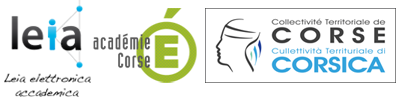
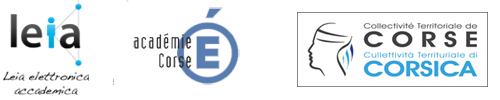
Updated template with color

diff --git a/style.css b/style.css
@@ -348,7 +348,7 @@ body {
 }
 
 a {
-	color: #21759b;
+	color: #3DAADB;
     text-decoration: none;
 }
 
@@ -894,7 +894,7 @@ textarea {
 .catchbase-nav-menu li a:focus,
 .sidebar-header-right .widget_nav_menu li a:hover,
 .sidebar-header-right .widget_nav_menu li a:focus {
-	color: #21759b;
+	color: #3DAADB;
 	text-decoration: none;
 }
 
@@ -909,7 +909,7 @@ textarea {
 .catchbase-nav-menu .current_page_ancestor > a,
 .sidebar-header-right .widget_nav_menu .current-menu-item > a,
 .sidebar-header-right .widget_nav_menu .current-menu-ancestor > a {
-	color: #21759b;
+	color: #3DAADB;
 }
 
 .catchbase-nav-menu .sub-menu,
@@ -959,7 +959,7 @@ textarea {
 .catchbase-nav-menu .children li a:focus,
 .sidebar-header-right .widget_nav_menu .sub-menu li a:hover,
 .sidebar-header-right .widget_nav_menu .sub-menu li a:focus {
-	color: #21759b;
+	color: #3DAADB;
 }
 
 .catchbase-nav-menu .sub-menu .sub-menu,
@@ -1159,7 +1159,7 @@ textarea {
 	border-radius: 3px;
 	box-shadow: 0 0 2px 2px rgba(0, 0, 0, 0.6);
 	clip: auto !important;
-	color: #21759b;
+	color: #3DAADB;
 	display: block;
 	font-size: 14px;
 	font-weight: bold;
@@ -1259,7 +1259,7 @@ textarea {
 }
 
 .site-title a:hover {
-	color: #21759b;
+	color: #3DAADB;
 	text-decoration: none;
 }
 
@@ -1342,7 +1342,7 @@ textarea {
 }
 
 #featured-content .entry-title a:hover {
-	color: #21759b;
+	color: #3DAADB;
 }
 
 #featured-content .featured-content-image {
@@ -1408,7 +1408,7 @@ textarea {
 }
 
 .entry-title a:hover {
-	color: #21759b;
+	color: #3DAADB;
 }
 
 .entry-title a:hover,
@@ -1952,7 +1952,7 @@ caption {
 
 #breadcrumb-list a,
 #breadcrumb-list a span {
-	color: #21759b;
+	color: #3DAADB;
 	display: block;
 	padding: 5px 10px 3px;
 }
@@ -2170,8 +2170,8 @@ caption {
 }
 
 .site .widget_catchbase_social_icons a.genericon-wordpress:hover {
-	background-color: #21759b;
-	border-color: #21759b;
+	background-color: #3DAADB;
+	border-color: #3DAADB;
 }
 
 .site .widget_catchbase_social_icons a.genericon-github:hover {
@@ -2305,16 +2305,16 @@ a.genericon-cog {
 
 
 a.genericon-key:hover {
-	background-color: #21759b;
-	border-color: #21759b;
+	background-color: #3DAADB;
+	border-color: #3DAADB;
 	text-decoration: none;
 	font-family: sans-serif;
 	color: white;
 }
 
 a.genericon-cog:hover {
-	background-color: #21759b;
-	border-color: #21759b;
+	background-color: #3DAADB;
+	border-color: #3DAADB;
 	text-decoration: none;
 	font-family: sans-serif;
 	color: white;

diff --git a/css/responsive.css b/css/responsive.css
@@ -4,7 +4,7 @@ Responsive Style
 
 	#site-login .wrapper {
 	    padding: 8px;
-	    background: #CCCCCC;
+	    background: #a1d6e6;
 	    opacity: 0.9;
     	filter: alpha(opacity=90);
 	}
@@ -15,12 +15,13 @@ Responsive Style
 	}
 
 	#header-left-content > a > img {
-		width: 350px;
+		width: 450px;
 	}
 
 	#header-right-content {
-		width: 50%;
-		float: left;
+		padding-top: 40px;
+		padding-right: 20px;
+		float: right;
 		text-align: right;
 	}
 
@@ -822,8 +823,6 @@ Responsive Style
 
 	#site-login {
 		font-size: 13px;
-		padding: 5px;
-		background: #CCCCCC;
 	}
 
 	#site-branding,
@@ -1023,6 +1022,11 @@ Responsive Style
 		height: 50px;
 	}
 
+	#header-right-content {
+	    padding-top: 23px;
+	}
+}
+
 /*--------------------------------------------------------------
 7. x <= 767px
 --------------------------------------------------------------*/
@@ -1042,6 +1046,10 @@ Responsive Style
 
 		#logos_partners > div {
 		height: 40px;
+	}
+
+		#header-right-content {
+	    padding-top: 20px;
 	}
 
 }
@@ -1071,20 +1079,6 @@ Responsive Style
 	    max-width: 25%;
 	}
 
-	#footer-left-content,
-	#footer-right-content {
-		display: block;
-		text-align: center;
-	    width: 100%;
-	}
-
-	#header-left-content,
-	#header-right-content {
-		display: block;
-		text-align: center;
-	    width: 100%;
-	    padding: 2px;
-	}
 
 	#logos_partners > div {
 		height: 30px;
@@ -1160,6 +1154,10 @@ Responsive Style
 
 	#logos_partners > div {
 		height: 25px;
+	}
+
+	#header-right-content {
+	    padding-top: 13px;
 	}
 
 }
@@ -1248,6 +1246,10 @@ Responsive Style
 	    margin-bottom: 0;
 	}
 
+	#header-right-content {
+	    padding-top: 13px;
+	}
+
 }
 
 /*--------------------------------------------------------------
@@ -1309,7 +1311,6 @@ Responsive Style
 	#site-generator {
 		font-size: 11px;
 	}
-
 	#header-left-content,
 	#header-right-content {
 		display: block;

diff --git a/css/editor-style.css b/css/editor-style.css
@@ -171,7 +171,7 @@ big {
 }
 
 a {
-	color: #21759b;
+	color: #3DAADB;
 	text-decoration: none;
 }
 

diff --git a/inc/catchbase-default-options.php b/inc/catchbase-default-options.php
@@ -618,7 +618,7 @@ function catchbase_get_content() {
 	$catchbase_content['top_left'] 	= '<a href="http://leia.corsica.eu" alt="Portail <sup>ENT</sup>"><img src="'. get_template_directory_uri() . '/images/partenaires/leia.png" class="logos_partners"></a>';
 // this is the content at the bottom right
 	// <img src="' . get_template_directory_uri() . '/images/login.jpg" class="wp-post-image" alt="se connecter" title="se connecter">
-	$catchbase_content['top_right']	= '&nbsp;<a class="genericon_parent genericon genericon-key" target="_self" href="https://cas.itslearning.com/cas-prod/login?service=https://leia.itslearning.com/elogin/autologin.aspx">se connecter</a>';
+	$catchbase_content['top_right']	= '&nbsp;<a class="genericon_parent genericon genericon-key" target="_self" href="https://cas.leia.corsica.eu/cas-prod/login?service=https://leia.itslearning.com/elogin/autologin.aspx">se connecter</a>';
 // this is the content at the bottom left
 	$catchbase_content['left'] 	= sprintf( _x( 'Copyright &copy; %1$s . All Rights Reserved.', '1: Year', 'catchbase' ), date( 'Y' ), '' );
 // this is the content at the bottom right
